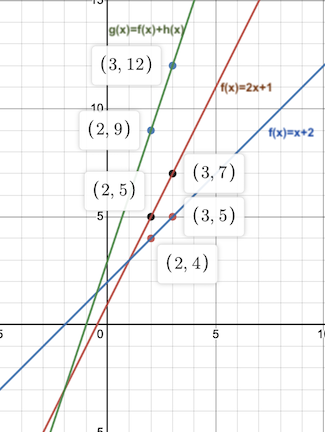
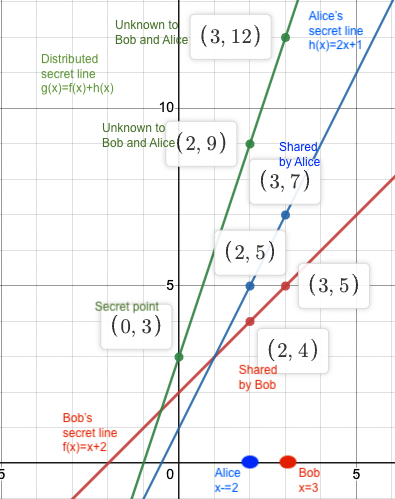
Improved illustration of the distributed key generation protocol

diff --git a/README.md b/README.md
@@ -9,7 +9,14 @@ The following figure is at the heart of distributed key generation.
 
 ![Sharmir Secret Sharing](/mpc/img/polynomial_add_3x2.png)
 
-Each line hides a secret. The green as the sum of both red and blue line hides the distributed secret. I hope simple enough, not to scare away the reader.
+Each line hides a secret. As you need two points to draw a line.
+
+1. Alice draws a secret line (blue) and shares only the point (3,5) with Bob.
+2. Bob draws a secret line (red) and shares only the point (2,5) with Alice.
+3. The sum of both lines is a distributed secret line (green) whose coordinate are unknown to a single party.
+4. The distributed secret line hides the distributed secret at (0,3).
+
+I hope simple enough, not to scare away the reader.
 
 # Content
 

diff --git a/mpc/cha.md b/mpc/cha.md
@@ -36,3 +36,6 @@ find the [discrete log](https://en.wikipedia.org/wiki/Discrete_logarithm) $k$ su
 
 Recall in this group, $k=log_{b}{(a)}$ is assumed to be hard to compute.
 
+# Next
+Proceed with [distributed key generation](./dkg-tss.md).
+
